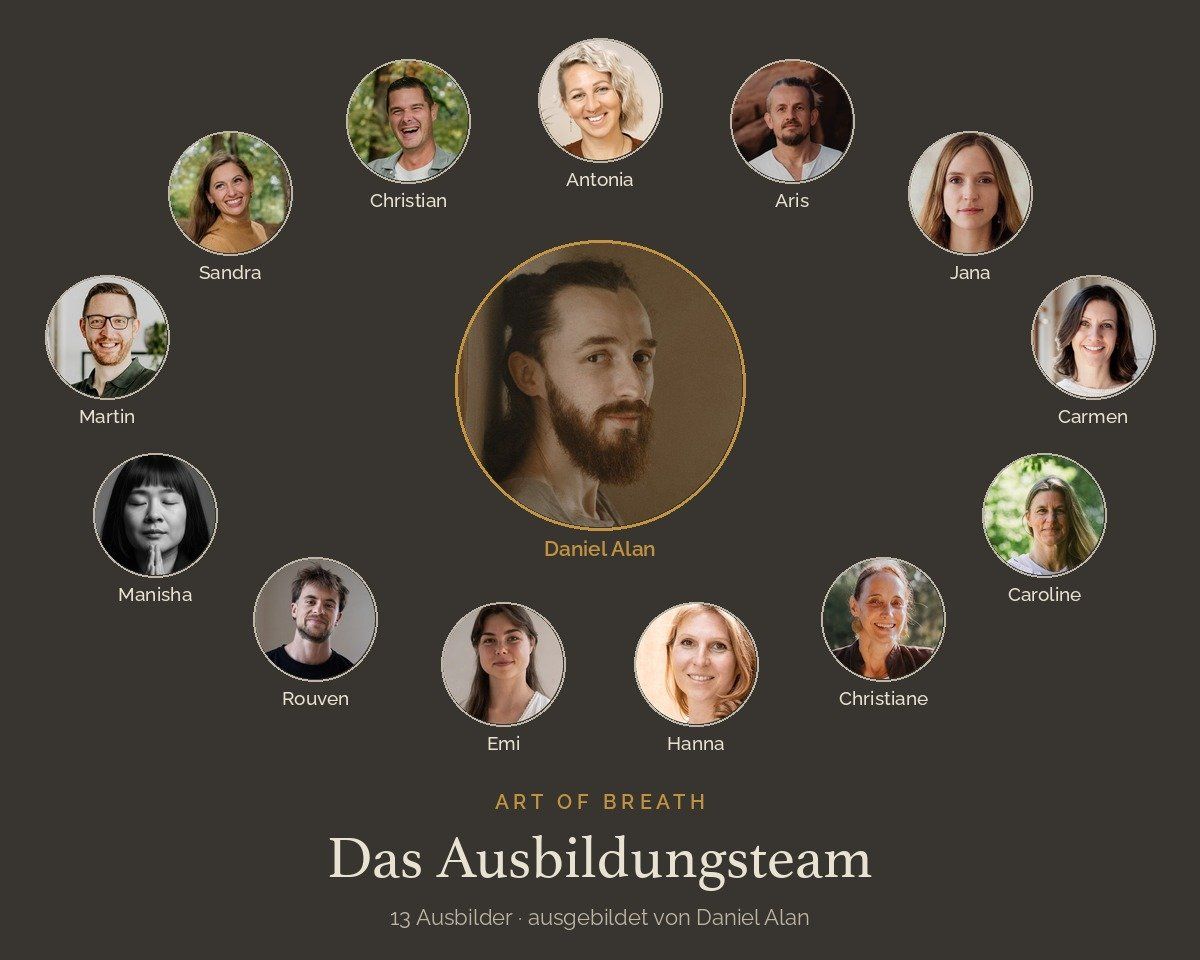
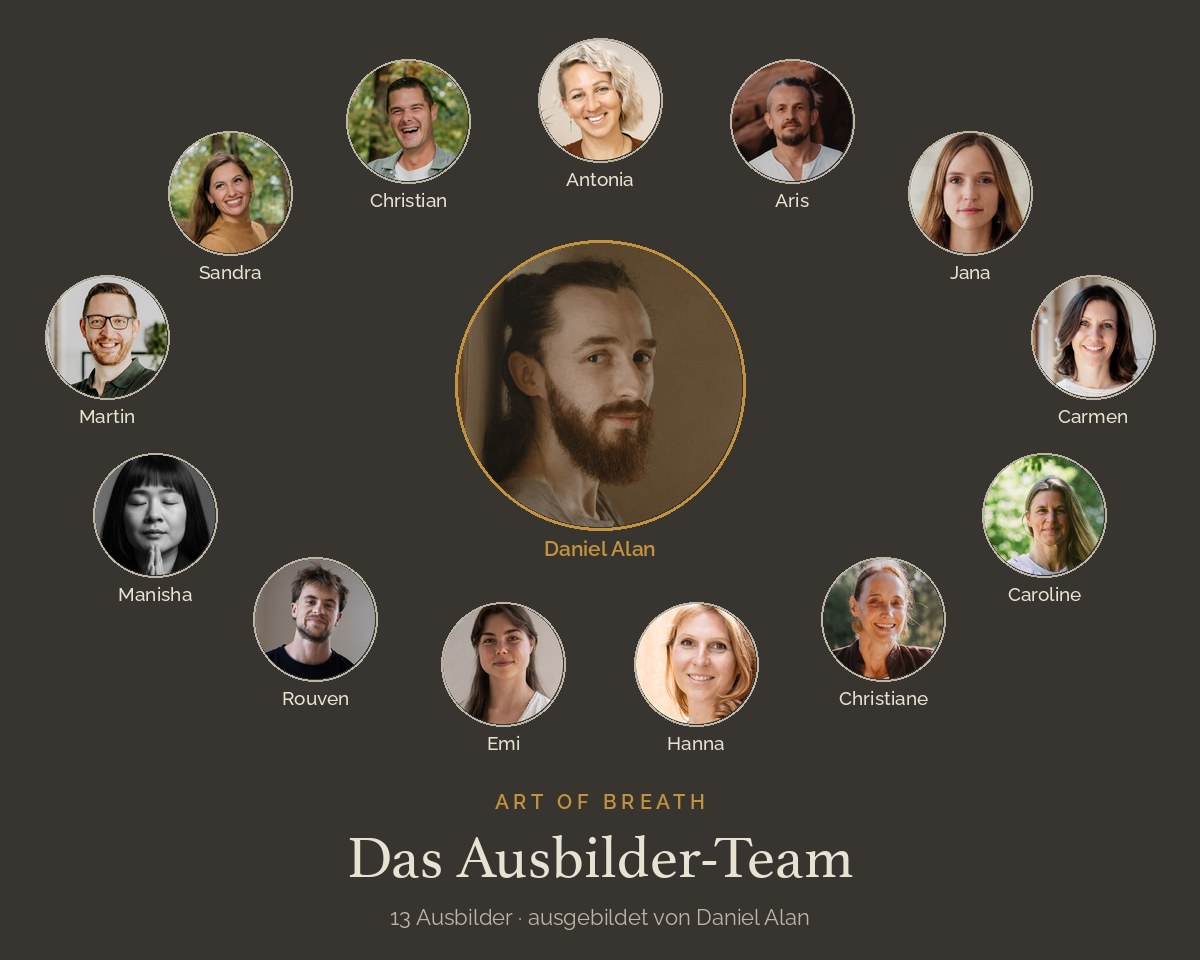
Ausbilder-Team statt Ausbildungsteam (Verzeichnis-Marke, Alt-Text), Teambild mit neuem Titel

Changed region(s): [[0.2775, 0.875, 0.74, 0.9375]]

diff --git a/graduates.html b/graduates.html
@@ -296,7 +296,7 @@
   }
   .avatar.has-img, .g-avatar.has-img { overflow: hidden; background: #EAE5DE; }
   .has-img img { width: 100%; height: 100%; object-fit: cover; display: block; border-radius: 50%; }
-  /* Ausbildungsteam: a quiet mark, same family as the tags but outlined in Wood */
+  /* Ausbilder-Team: a quiet mark, same family as the tags but outlined in Wood */
   .team-mark {
     display: inline-block; margin: -8px 0 12px;
     font-size: 10.5px; font-weight: 600; text-transform: uppercase; letter-spacing: .14em;
@@ -778,7 +778,7 @@
   //   bio       first sentences of their own text, shown on the map card
   //   about     their own text, paragraphs, shown on the lifted card
   //   pkg, background  their answers as blocks: {p} paragraph, {h} subheading, {ul} list
-  //   team      part of the Ausbildungsteam, gets its own mark
+  //   team      part of the Ausbilder-Team, gets its own mark
   //   offers    keys of OFFERS; specs: keys of SPECS, or the free text behind „Andere“
   //   img       square portrait in images/graduates/, empty = monogram
   const GRADUATES = window.GRADUATES || [];
@@ -792,7 +792,7 @@
   const avatarHTML = (t, i, cls, tag = 'div') => t.img
     ? `<${tag} class="${cls} has-img" aria-hidden="true"><img src="${t.img}" alt="" loading="lazy" decoding="async" width="300" height="300"></${tag}>`
     : `<${tag} class="${cls} ${MONO[i % MONO.length]}" aria-hidden="true">${initials(t.name)}</${tag}>`;
-  const TEAM_MARK = '<span class="team-mark">Ausbildungsteam</span>';
+  const TEAM_MARK = '<span class="team-mark">Ausbilder-Team</span>';
   const REDUCED = window.matchMedia('(prefers-reduced-motion: reduce)').matches;
 
   // Great-circle distance in km.
@@ -855,7 +855,7 @@
           <div class="back-head">
             ${avatarHTML(t, i, 'avatar')}
             <div>
-              <p class="back-eyebrow">${t.team ? 'Ausbildungsteam' : 'Breathworker'}</p>
+              <p class="back-eyebrow">${t.team ? 'Ausbilder-Team' : 'Breathworker'}</p>
               <h2 class="back-name" id="focus-name">${t.name}</h2>
               <div class="t-loc">${PIN}${t.city}${distHTML}</div>
             </div>

diff --git a/index.html b/index.html
@@ -323,7 +323,7 @@
   .teacher-link svg { width: 16px; height: 16px; transition: transform .2s ease; }
   .teacher-link a:hover svg { transform: translateX(3px); }
 
-  /* ============ ROOT (Ausbildungsteam, dark) ============ */
+  /* ============ ROOT (Ausbilder-Team, dark) ============ */
   .root { position: relative; overflow: hidden;
           display: flex; align-items: center; min-height: clamp(440px, 40vw, 580px); }
   /* The team picture is a finished composition on its own charcoal plate, so it sits as a
@@ -670,7 +670,7 @@
            srcset="images/teambild-quer-800.jpg 800w, images/teambild-quer-1200.jpg 1200w"
            sizes="(max-width: 860px) 100vw, 560px"
            width="1200" height="960" loading="lazy" decoding="async"
-           alt="Das Art of Breath Ausbildungsteam: Daniel Alan in der Mitte, um ihn herum die dreizehn Ausbilder Antonia, Aris, Jana, Carmen, Caroline, Christiane, Hanna, Emi, Rouven, Manisha, Martin, Sandra und Christian." />
+           alt="Das Art of Breath Ausbilder-Team: Daniel Alan in der Mitte, um ihn herum die dreizehn Ausbilder Antonia, Aris, Jana, Carmen, Caroline, Christiane, Hanna, Emi, Rouven, Manisha, Martin, Sandra und Christian." />
     </div>
   </section>
 
